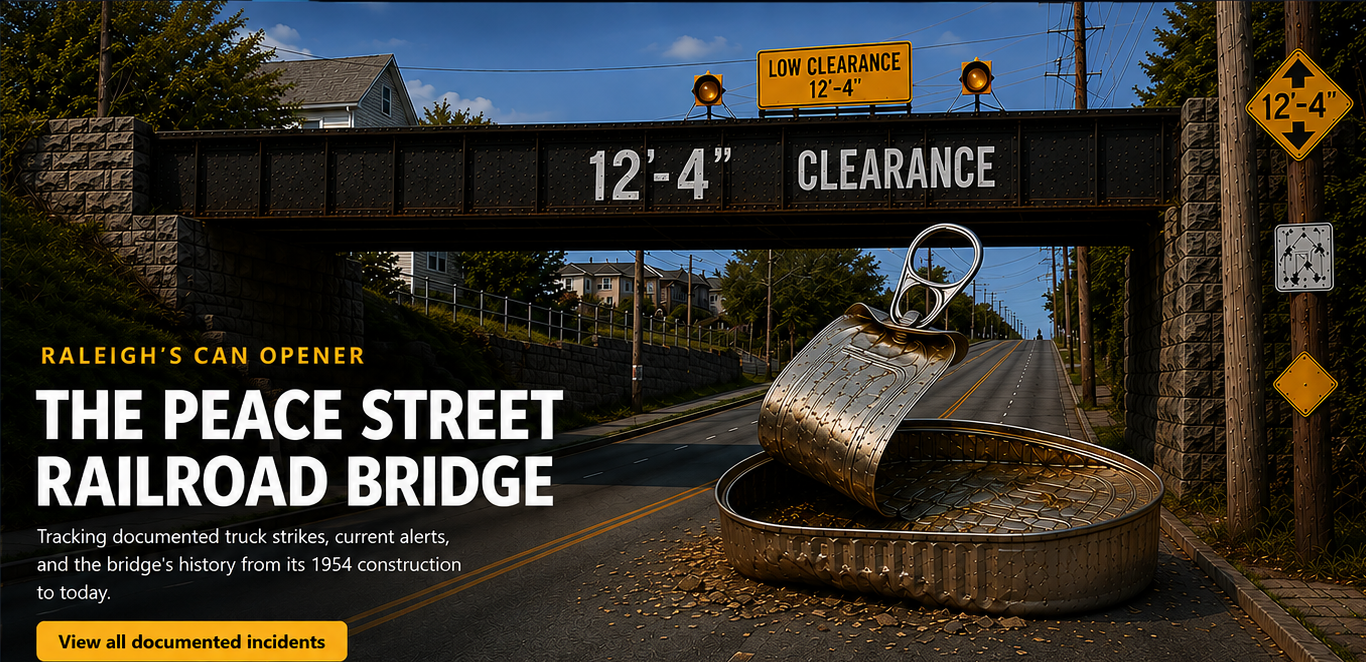
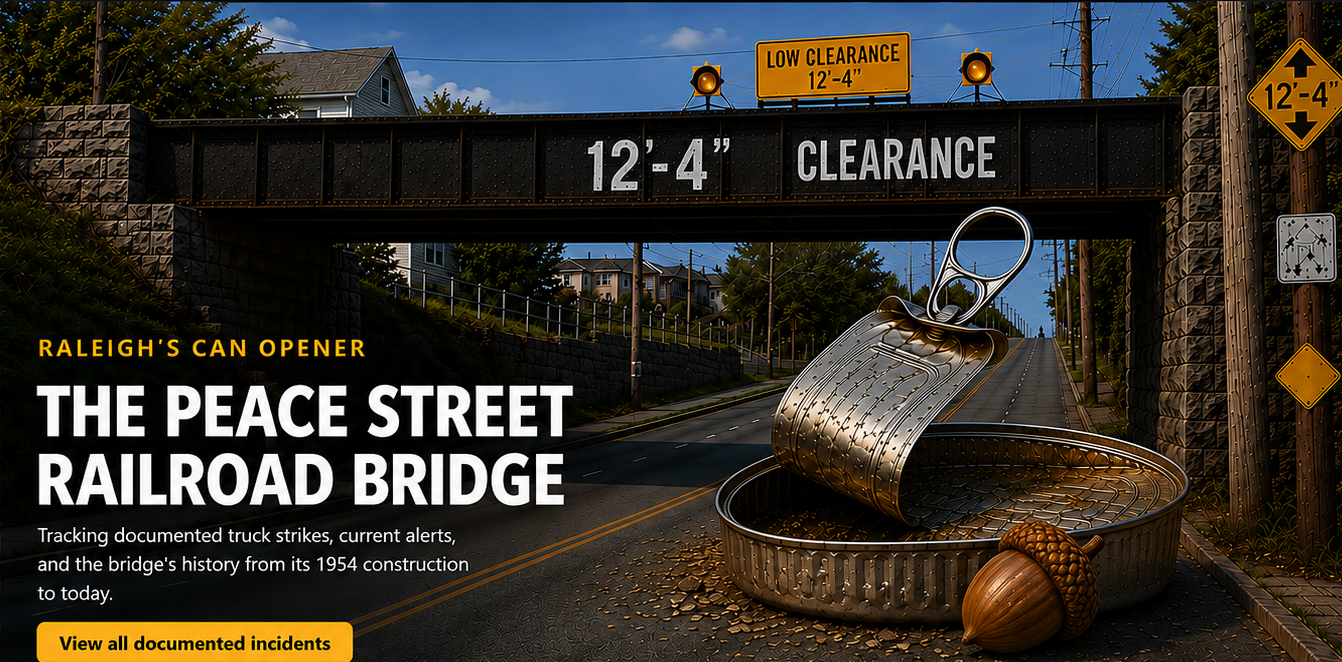
Add acorn to homepage hero

diff --git a/README.md b/README.md
@@ -198,3 +198,8 @@ The strike-alert button now has explicit checking, enabling, enabled, and retry 
 - Uses the approved uphill Peace Street bridge hero with the peeled sardine can.
 - Keeps exactly one functional navigation row; no navigation or alert controls are baked into the hero image.
 - Updates the installable phone icon to the approved bridge + sardine can + acorn artwork.
+
+## Version 2.5.8
+- Uses the approved uphill Peace Street bridge hero with the peeled sardine can and acorn in front.
+- Keeps only the real functional navigation row; no navigation controls are baked into the hero artwork.
+- Retains the sardine-can + acorn PWA/home-screen icon.
